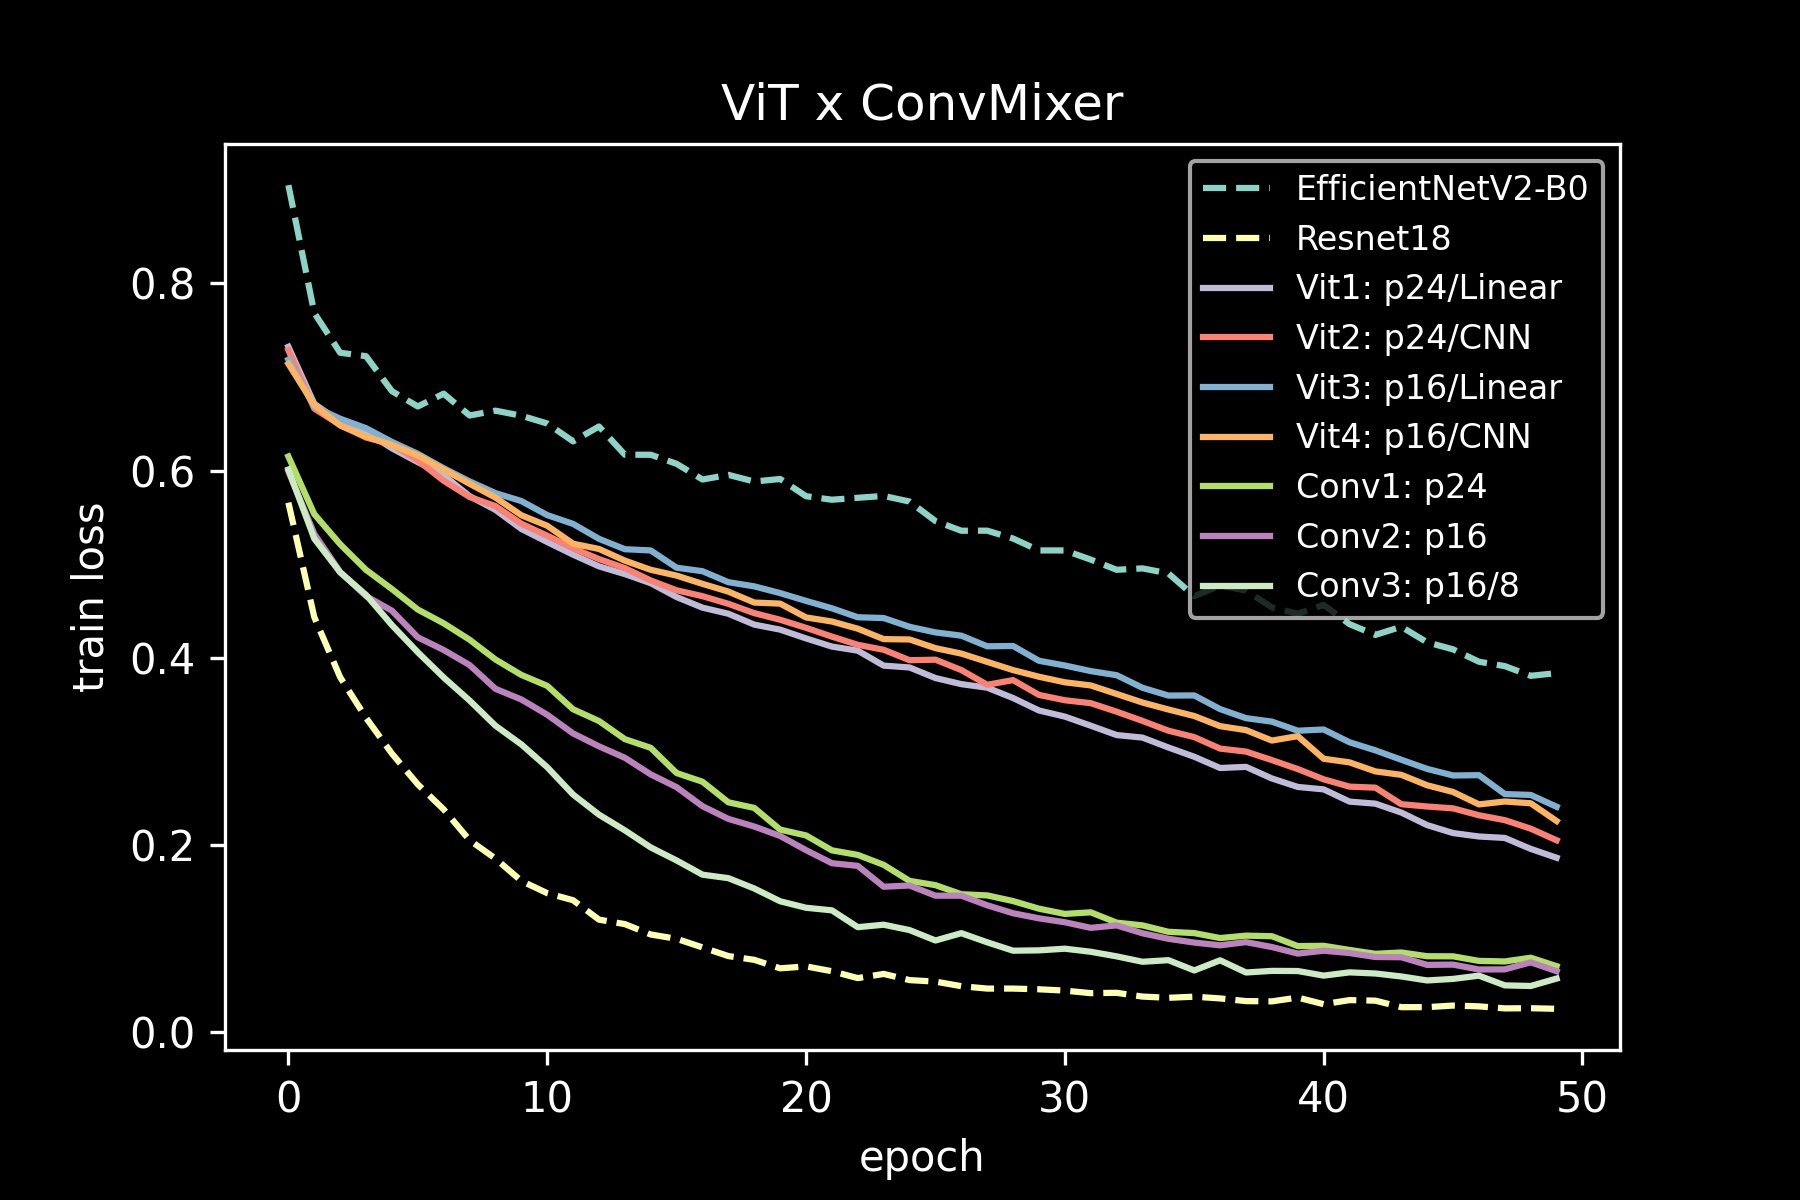
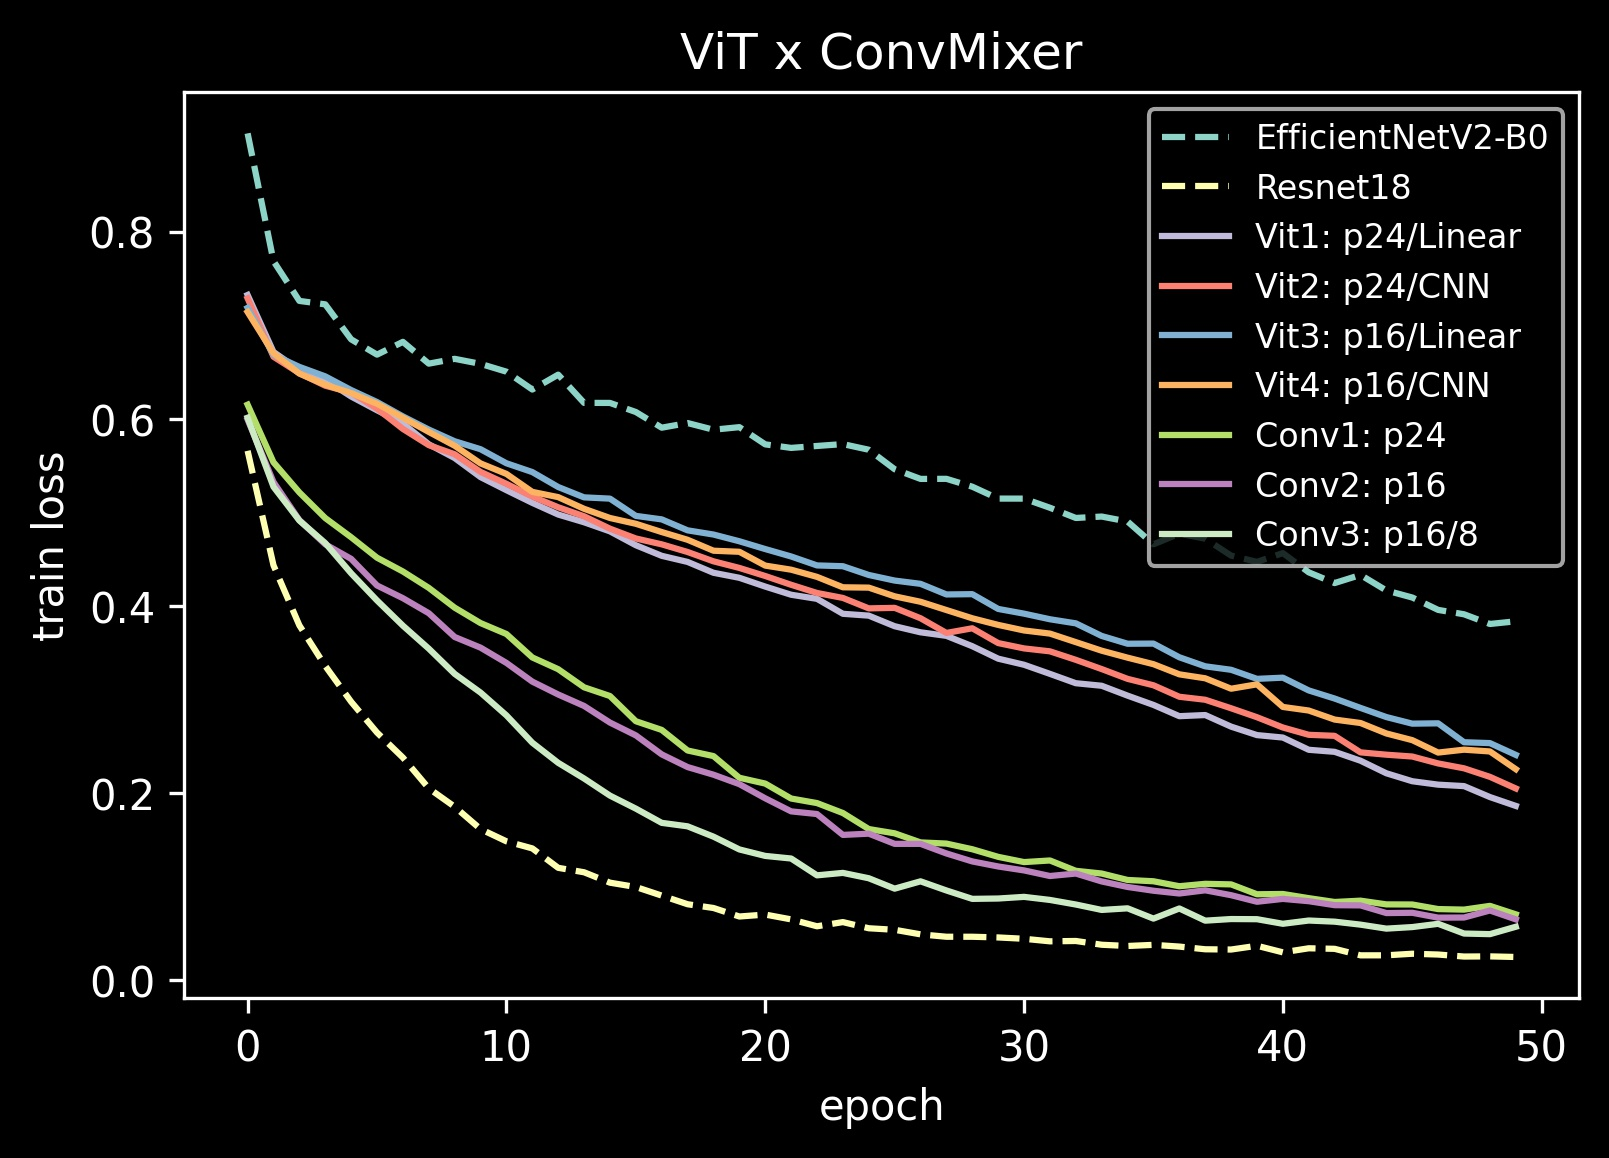
add images

Changed region(s): [[0.0, 0.0311, 0.9944, 0.9948], [0.1865, 0.5596, 0.2175, 0.6218], [0.9012, 0.5285, 0.9323, 0.5596]]

diff --git a/results/plot.py b/results/plot.py
@@ -42,7 +42,7 @@ plt.xlabel('epoch')
 plt.ylabel('train loss')
 plt.rc('legend', fontsize=8)
 plt.legend()
-plt.savefig('loss.jpg', dpi=300)
+plt.savefig('loss.jpg', dpi=300, bbox_inches='tight')
 plt.show()
 
 # %% ---------------------------------------------
@@ -73,5 +73,5 @@ plt.xlabel('epoch')
 plt.ylabel('train acc')
 plt.rc('legend', fontsize=8)
 plt.legend()
-plt.savefig('acc.jpg', dpi=300)
+plt.savefig('acc.jpg', dpi=300, bbox_inches='tight')
 plt.show()
